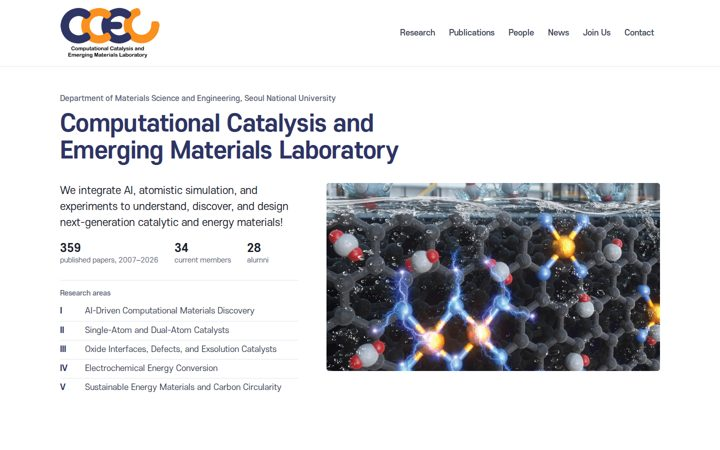
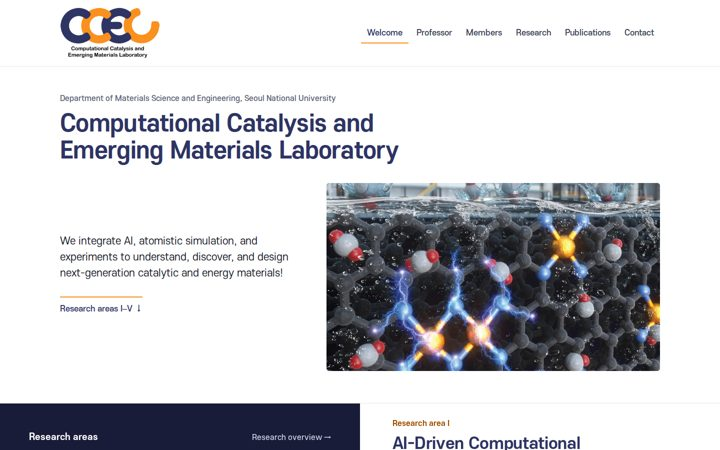
Lean landing page (v5): main page like the current Welcome page; research, highlights and people moved to their tabs; web-sized photos
Claude-Session: https://claude.ai/code/session_01SNpB6kkZCcR5i9nBkgXGUc

Changed region(s): [[0.0, 0.4044, 0.825, 1.0], [0.4889, 0.0622, 0.8556, 0.1244], [0.0611, 0.8089, 0.0917, 0.84]]

diff --git a/index.html b/index.html
@@ -30,22 +30,22 @@
 <body>
 <header><div class="wrap"><img src="_shared/img/logo2.png" alt="CCEL logo"><h1>홈페이지 시안 1–9 (미리보기)</h1></div></header>
 <main class="wrap">
-  <p class="note">연구실 홈페이지 개편 시안 미리보기입니다. 시안마다 별도 사이트로 올라가 있고, 메인·논문·멤버 세 페이지가 실제 홈페이지처럼 동작합니다. 내용은 현재 연구실 홈페이지 데이터를 그대로 씁니다. 확정되면 이 미리보기는 지웁니다.</p>
+  <p class="note">연구실 홈페이지 개편 시안 미리보기입니다. 시안마다 별도 사이트로 올라가 있고, 메인·연구·논문·멤버 페이지가 실제 홈페이지처럼 동작합니다. 내용은 현재 연구실 홈페이지 데이터를 그대로 씁니다. 확정되면 이 미리보기는 지웁니다.</p>
   <div class="grid">
   <article class="card">
     <a class="thumb" href="https://jinukmoon.github.io/ccel-s1/"><img src="thumbs/1.jpg" alt="S1 Pinned hero first screen" loading="lazy" width="720" height="450"></a>
     <div class="body">
       <h2><span class="n">1</span>S1 Pinned hero</h2>
       <p>영상 히어로가 고정된 채 재생된 뒤 차분한 저널형 페이지로 넘어감 (가장 절제)</p>
-      <p class="links"><a href="https://jinukmoon.github.io/ccel-s1/">Main</a><a href="https://jinukmoon.github.io/ccel-s1/publications.html">Publications</a><a href="https://jinukmoon.github.io/ccel-s1/members.html">Members</a></p>
+      <p class="links"><a href="https://jinukmoon.github.io/ccel-s1/">Main</a><a href="https://jinukmoon.github.io/ccel-s1/research.html">Research</a><a href="https://jinukmoon.github.io/ccel-s1/publications.html">Publications</a><a href="https://jinukmoon.github.io/ccel-s1/members.html">Members</a></p>
     </div>
   </article>
   <article class="card">
     <a class="thumb" href="https://jinukmoon.github.io/ccel-s2/"><img src="thumbs/2.jpg" alt="S2 Research chapters first screen" loading="lazy" width="720" height="450"></a>
     <div class="body">
       <h2><span class="n">2</span>S2 Research chapters</h2>
-      <p>연구분야 I–V를 챕터처럼 넘기며 분야별 영상·요약·대표 논문</p>
-      <p class="links"><a href="https://jinukmoon.github.io/ccel-s2/">Main</a><a href="https://jinukmoon.github.io/ccel-s2/publications.html">Publications</a><a href="https://jinukmoon.github.io/ccel-s2/members.html">Members</a></p>
+      <p>연구분야 I–V를 챕터처럼 넘기며 분야별 영상 (상세는 Research 탭)</p>
+      <p class="links"><a href="https://jinukmoon.github.io/ccel-s2/">Main</a><a href="https://jinukmoon.github.io/ccel-s2/research.html">Research</a><a href="https://jinukmoon.github.io/ccel-s2/publications.html">Publications</a><a href="https://jinukmoon.github.io/ccel-s2/members.html">Members</a></p>
     </div>
   </article>
   <article class="card">
@@ -53,7 +53,7 @@
     <div class="body">
       <h2><span class="n">3</span>S3 Cinematic</h2>
       <p>어두운 첫 화면에서 창이 열리듯 영상이 전체 화면으로, 본문은 밝게</p>
-      <p class="links"><a href="https://jinukmoon.github.io/ccel-s3/">Main</a><a href="https://jinukmoon.github.io/ccel-s3/publications.html">Publications</a><a href="https://jinukmoon.github.io/ccel-s3/members.html">Members</a></p>
+      <p class="links"><a href="https://jinukmoon.github.io/ccel-s3/">Main</a><a href="https://jinukmoon.github.io/ccel-s3/research.html">Research</a><a href="https://jinukmoon.github.io/ccel-s3/publications.html">Publications</a><a href="https://jinukmoon.github.io/ccel-s3/members.html">Members</a></p>
     </div>
   </article>
   <article class="card">
@@ -61,15 +61,15 @@
     <div class="body">
       <h2><span class="n">4</span>S4 Split screen</h2>
       <p>왼쪽에 영상 고정, 오른쪽 본문만 스크롤</p>
-      <p class="links"><a href="https://jinukmoon.github.io/ccel-s4/">Main</a><a href="https://jinukmoon.github.io/ccel-s4/publications.html">Publications</a><a href="https://jinukmoon.github.io/ccel-s4/members.html">Members</a></p>
+      <p class="links"><a href="https://jinukmoon.github.io/ccel-s4/">Main</a><a href="https://jinukmoon.github.io/ccel-s4/research.html">Research</a><a href="https://jinukmoon.github.io/ccel-s4/publications.html">Publications</a><a href="https://jinukmoon.github.io/ccel-s4/members.html">Members</a></p>
     </div>
   </article>
   <article class="card">
     <a class="thumb" href="https://jinukmoon.github.io/ccel-s5/"><img src="thumbs/5.jpg" alt="S5 Data-forward first screen" loading="lazy" width="720" height="450"></a>
     <div class="body">
       <h2><span class="n">5</span>S5 Data-forward</h2>
-      <p>짧은 영상 뒤 연도별 논문·연구분야·저널 그래프</p>
-      <p class="links"><a href="https://jinukmoon.github.io/ccel-s5/">Main</a><a href="https://jinukmoon.github.io/ccel-s5/publications.html">Publications</a><a href="https://jinukmoon.github.io/ccel-s5/members.html">Members</a></p>
+      <p>영상 위 흰 패널이 걷히며 본문으로, 연도 막대는 Publications 탭에서 연도 바로가기로만</p>
+      <p class="links"><a href="https://jinukmoon.github.io/ccel-s5/">Main</a><a href="https://jinukmoon.github.io/ccel-s5/research.html">Research</a><a href="https://jinukmoon.github.io/ccel-s5/publications.html">Publications</a><a href="https://jinukmoon.github.io/ccel-s5/members.html">Members</a></p>
     </div>
   </article>
   <article class="card">
@@ -77,7 +77,7 @@
     <div class="body">
       <h2><span class="n">6</span>S6 Horizontal rail</h2>
       <p>연구분야 패널이 가로로 넘어가는 레일</p>
-      <p class="links"><a href="https://jinukmoon.github.io/ccel-s6/">Main</a><a href="https://jinukmoon.github.io/ccel-s6/publications.html">Publications</a><a href="https://jinukmoon.github.io/ccel-s6/members.html">Members</a></p>
+      <p class="links"><a href="https://jinukmoon.github.io/ccel-s6/">Main</a><a href="https://jinukmoon.github.io/ccel-s6/research.html">Research</a><a href="https://jinukmoon.github.io/ccel-s6/publications.html">Publications</a><a href="https://jinukmoon.github.io/ccel-s6/members.html">Members</a></p>
     </div>
   </article>
   <article class="card">
@@ -85,15 +85,15 @@
     <div class="body">
       <h2><span class="n">7</span>S7 Bold split screen</h2>
       <p>S4 구조의 과감한 다크판</p>
-      <p class="links"><a href="https://jinukmoon.github.io/ccel-s7/">Main</a><a href="https://jinukmoon.github.io/ccel-s7/publications.html">Publications</a><a href="https://jinukmoon.github.io/ccel-s7/members.html">Members</a></p>
+      <p class="links"><a href="https://jinukmoon.github.io/ccel-s7/">Main</a><a href="https://jinukmoon.github.io/ccel-s7/research.html">Research</a><a href="https://jinukmoon.github.io/ccel-s7/publications.html">Publications</a><a href="https://jinukmoon.github.io/ccel-s7/members.html">Members</a></p>
     </div>
   </article>
   <article class="card">
     <a class="thumb" href="https://jinukmoon.github.io/ccel-s8/"><img src="thumbs/8.jpg" alt="S8 Bold data first screen" loading="lazy" width="720" height="450"></a>
     <div class="body">
       <h2><span class="n">8</span>S8 Bold data</h2>
-      <p>S5 구조의 과감한 다크판</p>
-      <p class="links"><a href="https://jinukmoon.github.io/ccel-s8/">Main</a><a href="https://jinukmoon.github.io/ccel-s8/publications.html">Publications</a><a href="https://jinukmoon.github.io/ccel-s8/members.html">Members</a></p>
+      <p>S5 구조의 과감한 다크판, 영상 둘째 장면에 연구분야 I–V 목록</p>
+      <p class="links"><a href="https://jinukmoon.github.io/ccel-s8/">Main</a><a href="https://jinukmoon.github.io/ccel-s8/research.html">Research</a><a href="https://jinukmoon.github.io/ccel-s8/publications.html">Publications</a><a href="https://jinukmoon.github.io/ccel-s8/members.html">Members</a></p>
     </div>
   </article>
   <article class="card">
@@ -101,7 +101,7 @@
     <div class="body">
       <h2><span class="n">9</span>S9 Bold rail</h2>
       <p>S6 구조의 과감한 다크판</p>
-      <p class="links"><a href="https://jinukmoon.github.io/ccel-s9/">Main</a><a href="https://jinukmoon.github.io/ccel-s9/publications.html">Publications</a><a href="https://jinukmoon.github.io/ccel-s9/members.html">Members</a></p>
+      <p class="links"><a href="https://jinukmoon.github.io/ccel-s9/">Main</a><a href="https://jinukmoon.github.io/ccel-s9/research.html">Research</a><a href="https://jinukmoon.github.io/ccel-s9/publications.html">Publications</a><a href="https://jinukmoon.github.io/ccel-s9/members.html">Members</a></p>
     </div>
   </article>
   </div>
